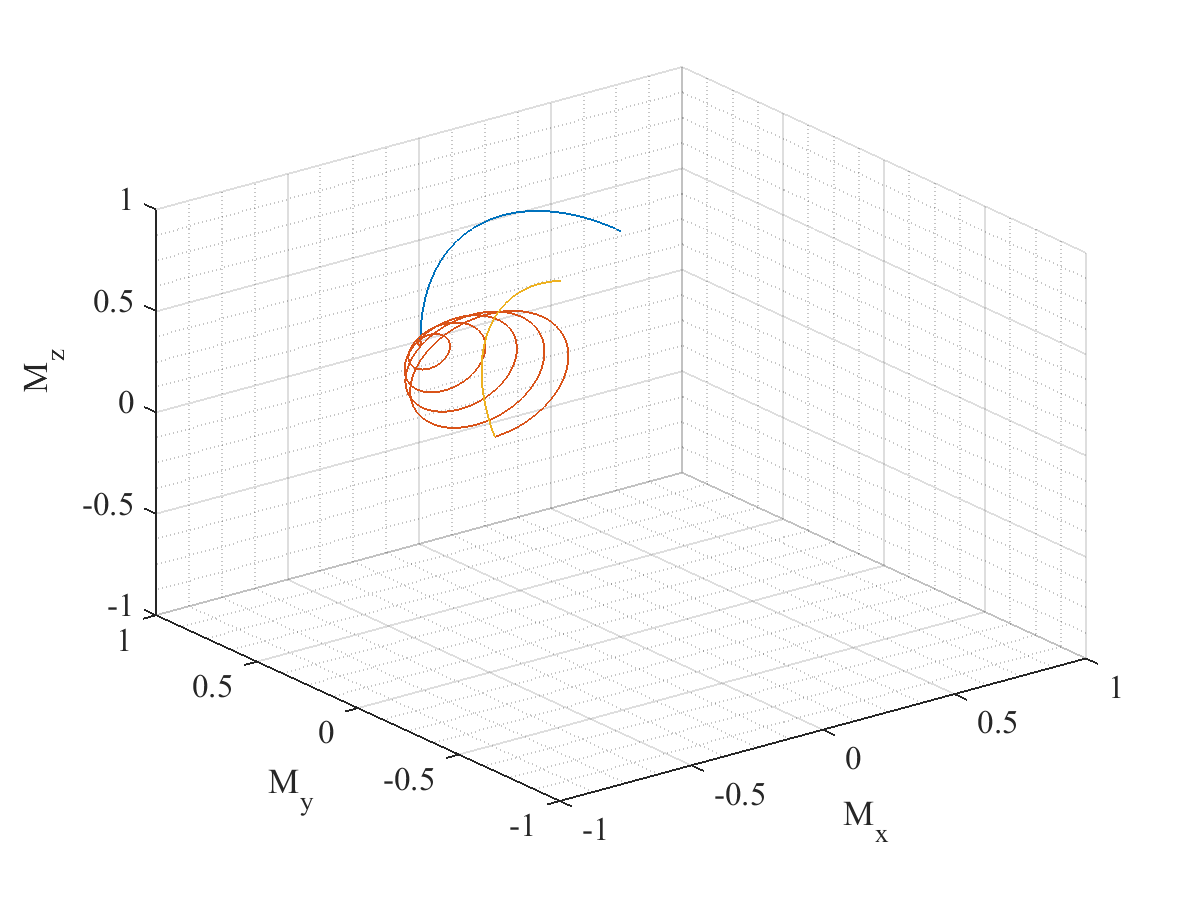
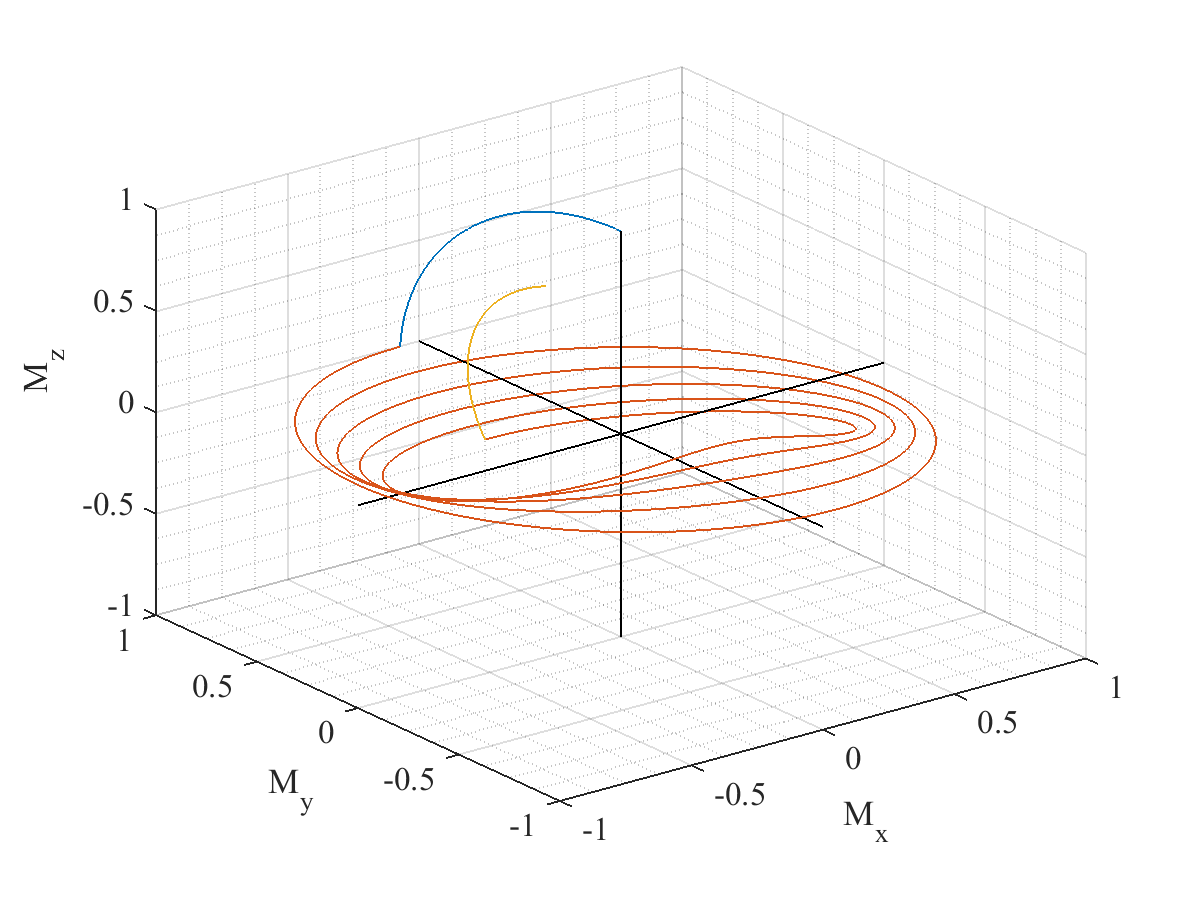
complete

Changed region(s): [[0.2775, 0.28, 0.7708, 0.5911], [0.6475, 0.56, 0.6783, 0.5911], [0.37, 0.2489, 0.4008, 0.28]]

diff --git a/bloch_sotsuron/bloch_spinlock/bloch_first_fig_la.m b/bloch_sotsuron/bloch_spinlock/bloch_first_fig_la.m
@@ -1,9 +1,9 @@
-function [M] = bloch_first_fig(T1, T2, b_x0, b_y0, trf, M_inf, M_i)
+function [M] = bloch_first_fig_la(T1, T2, b_x0, b_y0, trf, M_inf, M_i)
   %Dynamics of magnetization in primary rotating coordinate system
   gamma = 2 * pi * 42.58e6; %rad/(s*T)
   %T1 = 300e-3; %T1 time    %s
   %T2 = 150e-3; %T2 time    %s
-  B0 = 0.3; %Static magnetic field    %T
+  B0 = 0.3e-6; %Static magnetic field    %T
   %b_x0 = 1e-5; %x component of B1 in t=0    %T
   %b_y0 = 0; %y component of B1 in t=0    %T
   omega_0 = gamma * B0;%Angular frequency in primary rotation coordinate
@@ -20,9 +20,13 @@ function [M] = bloch_first_fig(T1, T2, b_x0, b_y0, trf, M_inf, M_i)
   %M_i   %Initial value of magnetization
 
   MA = [-R2, omega(3), -omega(2);...
-        -omega(3), -R2, omega(1);...
-        omega(2), -omega(1), -R1];
+  - omega(3),      -R2, omega(1);...
+  omega(2),-omega(1), -R1];
   for i = 1:size(t,2)
+    Mc1 = [cos(omega_0*t(i)), -sin(omega_0*t(i)), 0;...
+           sin(omega_0*t(i)), cos(omega_0*t(i)), 0;...
+           0, 0, 1];  %Mateix for basis conversion
     M(:,i) = expm(MA * t(i)) * M_i + ( eye(3) - expm(MA * t(i)) ) * -inv(MA) * M_a;
+    M(:,i) = Mc1 * M(:,i);
   end
 end

diff --git a/bloch_sotsuron/bloch_spinlock/bloch_second_fig_la.m b/bloch_sotsuron/bloch_spinlock/bloch_second_fig_la.m
@@ -1,4 +1,4 @@
-function [M_sl] = bloch_second_fig(T1rho, T2rho, Bsl, Bos, omega_os, tsl, M_sl_i )
+function [M_sl] = bloch_second_fig_la(T1rho, T2rho, Bsl, Bos, omega_os, tsl, M_sl_i )
   %Dynamics of magnetization in secondary rotating coordinate system (i.e. while spin locking)
 
   gamma = 2 * pi * 42.58e6; %rad/(s*T)
@@ -23,13 +23,16 @@ function [M_sl] = bloch_second_fig(T1rho, T2rho, Bsl, Bos, omega_os, tsl, M_sl_i
 
   MA = [-R2rho, omega_sl(3), - omega_sl(2);...
         -omega_sl(3),      -R1rho,   omega_sl(1);...
-         omega_sl(2),-omega_sl(1), - R2rho];
+        omega_sl(2),-omega_sl(1), - R2rho];
 
   for i = 1:size(t,2)
+    Mc1 = [cos(omega_os*t(i)), -sin(omega_os*t(i)), 0;...
+           sin(omega_os*t(i)), cos(omega_os*t(i)), 0;...
+           0, 0, 1];  %Mateix for basis conversion
     Mc2 = [cos(omega_os*t(i)), 0, sin(omega_os*t(i));...
            0, 1, 0;...
            -sin(omega_os*t(i)), 0, cos(omega_os*t(i))]; %Mateix for basis conversion
     M_sl(:,i) = expm(MA * t(i)) * M_sl_i;
-    M_sl(:,i) = Mc2 * M_sl(:,i); %basis conversion(2 -> 1)
+    M_sl(:,i) =  Mc1 * Mc2 * M_sl(:,i); %basis conversion(2 -> 1)
   end
 end

diff --git a/bloch_sotsuron/bloch_matrix_spinlock_fig_la.m b/bloch_sotsuron/bloch_matrix_spinlock_fig_la.m
@@ -32,9 +32,9 @@ tsl = 50e-3;
 %-------------------------------------------------------------------------------
 %function
 %-------------------------------------------------------------------------------
-[M] = bloch_first_fig( T1, T2, b_x0, b_y0, trf, M_inf, M_i );
-[M_sl] = bloch_second_fig( T1rho, T2rho, Bsl, Bos, omega_os, tsl, M(:,end) );
-[M_sl2] = bloch_first_fig( T1, T2, -b_x0, b_y0, trf, M_inf, M_sl(:,end) );
+[M] = bloch_first_fig_la( T1, T2, b_x0, b_y0, trf, M_inf, M_i );
+[M_sl] = bloch_second_fig_la( T1rho, T2rho, Bsl, Bos, omega_os, tsl, M(:,end) );
+[M_sl2] = bloch_first_fig_la( T1, T2, -b_x0, b_y0, trf, M_inf, M_sl(:,end) );
 
 %-------------------------------------------------------------------------------
 %figure
@@ -64,14 +64,14 @@ for k = 1:size(M_sl2,2)
   M_sl2_z(k) = M_sl2(3,k);
 end
 
+
 a = -1:1e-2:1;
 b = zeros(size(a));
-
 figure;
-plot3(M_x,M_y,M_z,'b');
+plot3(M_x,M_y,M_z);
 hold on;
-plot3(M_sl_x,M_sl_y,M_sl_z,'r');
-plot3(M_sl2_x,M_sl2_y,M_sl2_z,'b');
+plot3(M_sl_x,M_sl_y,M_sl_z);
+plot3(M_sl2_x,M_sl2_y,M_sl2_z);
 plot3(a,b,b,'k');
 plot3(b,a,b,'k');
 plot3(b,b,a,'k');

diff --git a/bloch_sotsuron/bloch_spinlock/bloch_second.m b/bloch_sotsuron/bloch_spinlock/bloch_second.m
@@ -22,12 +22,12 @@ function [M_sl] = bloch_second(T1rho, T2rho, Bsl, Bos, omega_os, tsl, M_sl_i )
   omega_sl = gamma * [b_os_x0; Bsl; b_os_z0] - [0;omega_os;0];    %rad
 
   MA = [-R2rho, omega_sl(3), - omega_sl(2);...
-  -omega_sl(3),      -R1rho,   omega_sl(1);...
-  omega_sl(2),-omega_sl(1), - R2rho];
+        -omega_sl(3),      -R1rho,   omega_sl(1);...
+        omega_sl(2),-omega_sl(1), - R2rho];
 
   Mc2 = [cos(omega_os*tsl), 0, sin(omega_os*tsl);...
-  0, 1, 0;...
-  -sin(omega_os*tsl), 0, cos(omega_os*tsl)]; %Matrix for basis conversion
+        0, 1, 0;...
+        -sin(omega_os*tsl), 0, cos(omega_os*tsl)]; %Matrix for basis conversion
 
   M_sl = expm(MA * tsl) * M_sl_i;
   M_sl = Mc2 * M_sl; %basis conversion(2 -> 1)

diff --git a/bloch_sotsuron/old/bloch_matrix_f_la.m b/bloch_sotsuron/old/bloch_matrix_f_la.m
@@ -40,8 +40,8 @@ close all;
     M_s = -inv(MA) * M_a;
     for t = 0:h:timesize
       M = expm(MA * t) * M_i + (I - expm(MA * t)) * M_s;
-      Mc1 = [cos(omega_0*t), sin(omega_0*t), 0;...
-             -sin(omega_0*t), cos(omega_0*t), 0;...
+      Mc1 = [cos(omega_0*t), -sin(omega_0*t), 0;...
+             sin(omega_0*t), cos(omega_0*t), 0;...
              0, 0, 1];  %Mateix for basis conversion
       M_la = Mc1 * M;
       %Mc1 = [cos(omega_0*t), -sin(omega_0*t), 0;...

diff --git a/bloch_sotsuron/bloch_spinlock/bloch_first.m b/bloch_sotsuron/bloch_spinlock/bloch_first.m
@@ -24,8 +24,8 @@ function [M] = bloch_first(T1, T2, b_x0, b_y0, trf, M_inf, M_i)
   M_a = [0; 0; R1*M_inf];
 
   MA = [-R2, omega(3), -omega(2);...
-  - omega(3),      -R2, omega(1);...
-  omega(2),-omega(1), -R1];
-  
+        -omega(3), -R2, omega(1);...
+        omega(2), -omega(1), -R1];
+
   M = expm(MA * trf) * M_i + (eye(3) - expm(MA * trf) )* -inv(MA) * M_a;
 end
